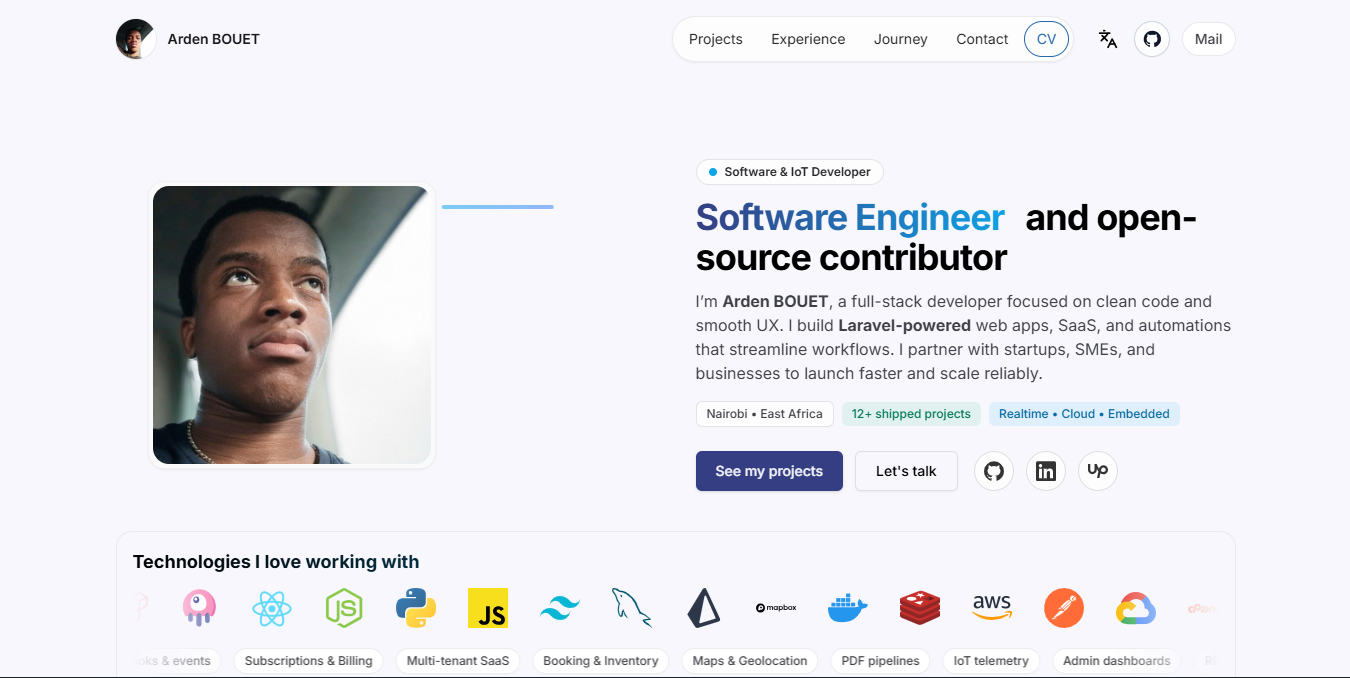
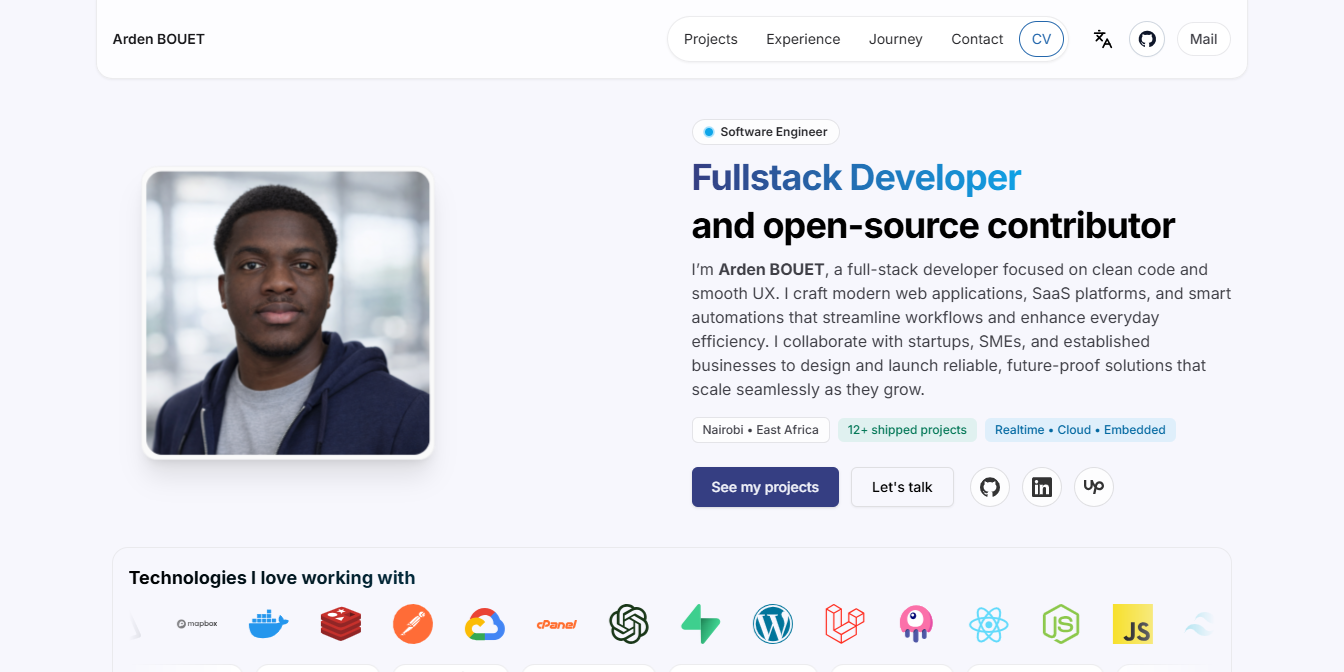
Suspended cv download

diff --git a/app/components/Header.tsx b/app/components/Header.tsx
@@ -189,7 +189,7 @@ export const Header = () => {
             ))}
             <li>
               <a
-                href="/files/cv-v4.pdf"
+                href="/#"
                 className="nav-chip !border-[color:var(--brand,#2467AC)] !text-[color:var(--brand,#2467AC)] hover:!bg-[color:var(--brand,#2467AC)] hover:!text-white"
               >
                 {t('menu.cv')}
@@ -269,7 +269,7 @@ export const Header = () => {
               </li>
             ))}
             <li className="mt-1 flex flex-wrap items-center gap-2">
-              <a href="/files/cv-v4.pdf" className="chip-outline">CV</a>
+              <a href="/#" className="chip-outline">CV</a>
               <a href="mailto:laudbouetoumoussa@gmail.com" className="chip-outline">Mail</a>
               <Link href="https://github.com/arden28" className="chip-outline">GitHub</Link>
               <Link href="https://www.linkedin.com/in/ardenbouet/" className="chip-outline">LinkedIn</Link>

diff --git a/app/components/ExperienceReel.tsx b/app/components/ExperienceReel.tsx
@@ -224,7 +224,7 @@ export default function ExperienceTimeline() {
 
             <div className="resume-actions">
               <a
-                href="/files/cv-v4.pdf"
+                href="/#"
                 target="_blank"
                 rel="noopener noreferrer"
                 className="inline-flex items-center justify-center rounded-md bg-[color:var(--brand)] px-4 py-2 text-sm font-semibold text-white shadow-sm hover:opacity-95"
